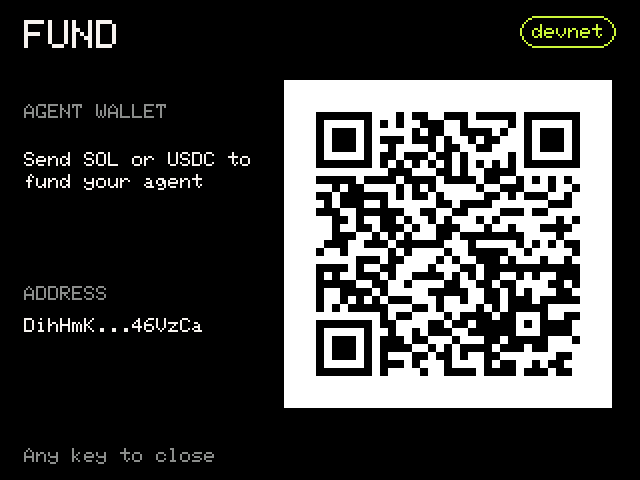
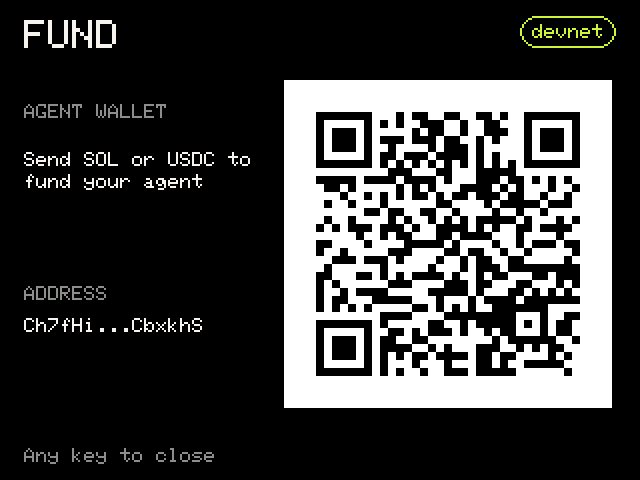
docs(wallet): record W3 acceptance and funding screenshots

diff --git a/TESTING.md b/TESTING.md
@@ -2008,3 +2008,101 @@ its generated wallet were removed. Final public log:
 `firmware/build/w2-desk-final.log`; source hashes:
 `firmware/build/w2-source-sha256.json`. W2 contains local commits only; no push,
 transaction submission, existing secret-file access or desktop restyle occurred.
+
+## Agent wallet W3 — part 4 and final acceptance (2026-11-12)
+
+The Agent wallet card uses the existing desktop surface, buttons, badges,
+icons and empty-state art. Its address, wallet source, cluster, SOL/SPL units,
+USD availability and observation time come from authenticated `/agent-wallet`.
+The funding QR uses the existing local encoder; no third-party QR service or
+secret export is involved. Creation is explicit, an absent pad is reported,
+and refresh/RPC failure clears prior balances instead of retaining stale values.
+The signing/session controls remain available below the card.
+
+The new built-app `desk/test/app-agent-wallet.test.mjs` exercises the actual
+backend and public devnet RPC without intercepted HTTP/WebSocket responses:
+
+- No-wallet instruction and Create action, with no funding QR or balances.
+- Explicit creation of one disposable wallet, identity match with the existing
+  session wallet, live zero SOL/USDC and honest devnet valuation text.
+- Clipboard address and independently decoded rendered QR match the wallet's
+  exact Solana Pay URI.
+- Card at 1440/375 px, reduced motion, text bounds, no horizontal overflow,
+  44×44 px controls and the entire card above the mobile navigation.
+- “Show QR on pad” reports no connected pad, then sends the matching public
+  Fund record to the real fragmented TCP padsim.
+- A refused RPC connection produces the actual route error, clears stale
+  balances/QR and does not offer Create for an already-created wallet.
+
+All existing W1/W2 tests remain, including the authenticated route's independent
+devnet balance checks, encrypted-v2 funding of the selected native pad wallet,
+PORTFOLIO fallback, explicit phone precedence and no-wallet instruction.
+`agent-wallet-status.test.mjs` additionally verifies that simultaneous wallet
+identity and policy-status reads share one fresh encrypted native-pad response,
+mutations remain exclusive and all readers reject together on disconnect.
+
+The first full run exposed a read race: the new wallet card could acquire the
+pad's single session request before the existing policy-status route, causing
+that route to fail and leave its controls disabled. That run was stopped and
+is not counted as completed acceptance. Read-only session-status requests now
+share their in-flight promise on the same encrypted connection. Policy changes,
+transaction signing and reviews retain their existing exclusive request gate.
+
+Screenshots are in `docs/screens/v3/`: `agent-wallet-devnet-{1440,375}.png`,
+`agent-wallet-fund-devnet.png`, `agent-wallet-portfolio-devnet.png` and
+`agent-wallet-portfolio-no-wallet.png`. The desktop images come from the new
+browser test; the pad images render actual captured public records through
+`tools/uipreview/preview` at 2× resolution. The unfunded disposable devnet
+identities have actual zero SOL/USDC. No funded-account or physical-pad scan
+claim is made. See the screenshot inventory for provenance.
+
+The full desk suite runs alone, serially, in a disposable source/runtime copy.
+Existing key material, `.env` files, `.loom`, dedicated devnet wallet directories
+and unrelated private runtime state are excluded before any file is read.
+Only dependency/venv links and explicitly public native drivers, firmware,
+manifest and SDK WASM inputs are supplied. The original repo Python venv is
+selected with `SIBYL_PY="$PWD/.venv/bin/python"` before entering the copy.
+Tests can create their own disposable identities; none is funded or submitted.
+All unrelated working-tree edits are preserved and excluded from the W3 commit.
+
+```sh
+firmware/test/run.sh
+EMSDK='/Volumes/Extreme SSD/.xorrpad-toolcache/emsdk' tools/uipreview/build-web-screen.sh
+npm run build:app --prefix desk
+# Inside the isolated source copy, with SIBYL_PY pointing to the repo venv:
+node --test --test-concurrency=1 --test-reporter=tap desk/test/*.test.mjs
+```
+
+Public evidence: `firmware/build/w3-{native,wasm,app-build-final,desk-final}.log`,
+`firmware/build/w3-design-check.json` and `firmware/build/w3-source-sha256.json`.
+The mechanical design check reports no findings. The rebuilt screen WASM is
+byte-identical to W2, SHA-256
[1 lines of base64/hex data omitted]
+
+Native acceptance: **273/273 cases, 2,709/2,709 assertions**, zero failures or
+skips. The focused concurrent-status regression passes **1/1**; the existing
+Agent policy browser regression passes **1/1** after the race fix. Their public
+logs are `firmware/build/w3-status.log` and
+`firmware/build/w3-policy-regression.log`. The standalone isolated app build
+passes; its pre-existing bundle-size and Device import warnings remain.
+
+Final isolated desk acceptance: **252 tests, 242 passed, 10 skipped, zero
+failures or cancellations**, exit **0**, **912,977.868458 ms**. Every new W3
+test and the existing live agent-wallet/funding/Portfolio tests passed without
+skips. The existing ten skips are unavailable Ollama/Anthropic/Deepgram/Electron
+setup, rate-limited Meteora, missing keeper public metadata, an unfunded
+disposable receipt wallet, two unconfigured Phoenix account cases and an
+unfunded pm-AMM simulation owner. No test was weakened or removed.
+
+Model3d parity and the independently decoded native Fund QR plus all six
+native/WASM wallet-frame cases passed in that full run. The desktop captures
+were refreshed from its actual browser test; the pad captures were regenerated
+from its actual TCP Fund and Portfolio records and visually inspected.
+The 25 recorded W3 source/public-artifact hashes matched both the working tree
+and isolated copy before and after completion. The disposable source/runtime
+and generated unfunded identities were removed after evidence extraction.
+
+Local implementation commit: `6a64a69`. Acceptance documentation and captures
+are committed separately. No existing secret files, `.env`, `.loom` or dedicated
+wallet directories were opened; no transaction was submitted and nothing was
+pushed. Mainnet execution gating and the approved desktop look are unchanged.

diff --git a/CHANGELOG.md b/CHANGELOG.md
@@ -6,6 +6,33 @@ All notable changes to xorrpad are documented here. This file follows
 
 ## [Unreleased]
 
+### Added — Agent wallet W3, part 4
+
+- Agent now shows the existing agent wallet's full public address with copy,
+  a locally encoded Solana Pay funding QR, live SOL/SPL balances and cluster,
+  valuation availability and observation time. Refresh reads the wallet again;
+  unavailable RPC data never becomes a fabricated zero balance.
+- “Create agent wallet” appears only when no wallet exists. “Show QR on pad”
+  uses the authenticated funding route and reports delivery or an absent pad.
+  Existing signing controls, components, artwork and desktop styling remain.
+- A built-app browser regression exercises real devnet creation/readback,
+  clipboard contents, independent QR decoding, actual fragmented TCP Fund
+  delivery and RPC failure. Captures cover the card at 1440/375 px and the
+  actual pad Fund/Portfolio records through the firmware preview renderer.
+- Concurrent wallet and policy status reads share one in-flight encrypted pad
+  request. Approval/signing stays exclusive; disconnect rejects all waiting
+  readers. This prevents the wallet card from disabling existing policy controls.
+
+### Added — Agent wallet W3 acceptance
+
+- Final isolated serial desk suite: 252 tests, 242 passed, 10 existing
+  setup/provider skips, zero failures. Native suite: 273 cases and 2,709
+  assertions passed. App build, model3d parity and all native/WASM wallet
+  frames passed. W3 source and public-artifact hashes match the tested copy.
+- Saved 1440/375 px desktop wallet captures and regenerated actual pad Fund,
+  Portfolio and no-wallet screenshots in `docs/screens/v3/`; documented test
+  results, the status-read race fix and screenshot provenance in `TESTING.md`.
+
 ### Added — Agent wallet W2, part 2
 
 - The desk sends `{type:"fund", address, uri, cluster}` over the existing v1

diff --git a/docs/screens/v3/README.md b/docs/screens/v3/README.md
@@ -58,10 +58,29 @@ through `tools/uipreview/preview`, using the firmware's own `ui.h`. The devnet
 capture is a newly created, unfunded disposable agent wallet (SOL 0, USDC 0),
 not a funded-account demonstration. The empty capture shows the exact no-wallet
 instruction. Both were visually inspected at 2× native resolution. Desktop
-wallet-card and Fund-screen captures belong to the later brief parts.
+wallet-card and Fund-screen captures are documented below.
 
 ```sh
 make -C tools/uipreview
 tools/uipreview/preview firmware/build/w1-pad 2 firmware/build/w1-portfolio-devnet.json
 tools/uipreview/preview firmware/build/w1-pad 2 firmware/build/w1-portfolio-no-wallet.json
 ```
+
+### Agent wallet W3 — desktop card and pad funding
+
+`agent-wallet-devnet-{1440,375}.png` captures the built Agent screen served by
+the real authenticated desktop backend. `desk/test/app-agent-wallet.test.mjs`
+creates an unfunded disposable desktop wallet, reads actual devnet SOL and SPL
+balances, checks the clipboard address, independently decodes the local QR,
+and sends its funding record to `tools/padsim` over fragmented TCP. Nothing is
+funded or submitted. Both captures use a 1000 px viewport, reduced motion,
+44×44 px controls and readable text bounds. The complete card is positioned
+above the mobile navigation using ordinary page scrolling.
+
+`agent-wallet-fund-devnet.png` renders that actual received Fund record through
+`tools/uipreview/preview`. `agent-wallet-portfolio-devnet.png` and
+`agent-wallet-portfolio-no-wallet.png` render the actual Portfolio records from
+the full run's `portfolio.live.test.mjs`. These use the firmware's `ui.h` at
+2× native resolution. Zero SOL/USDC belongs to real newly generated devnet
+identities; unavailable market USD is stated honestly. These are simulator
+and firmware-renderer captures, with no physical-pad funding claim.
